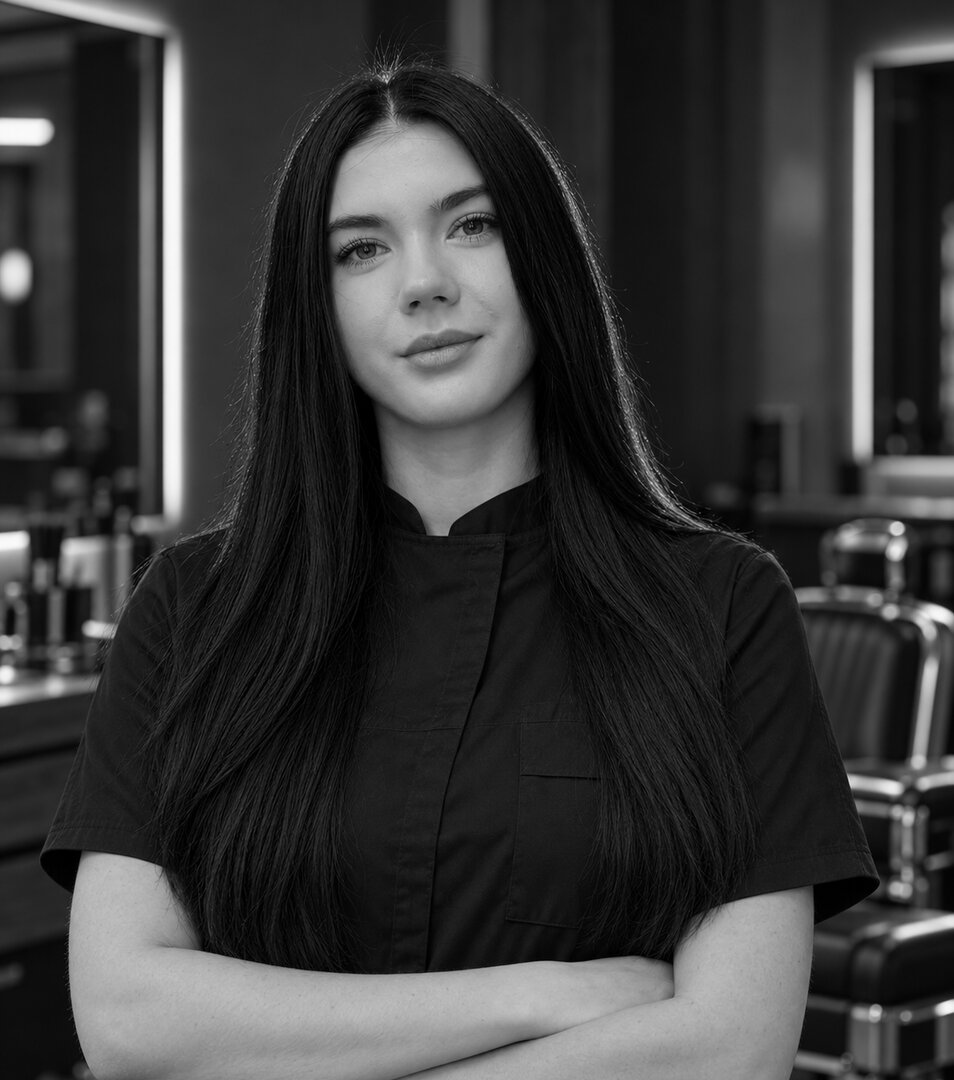
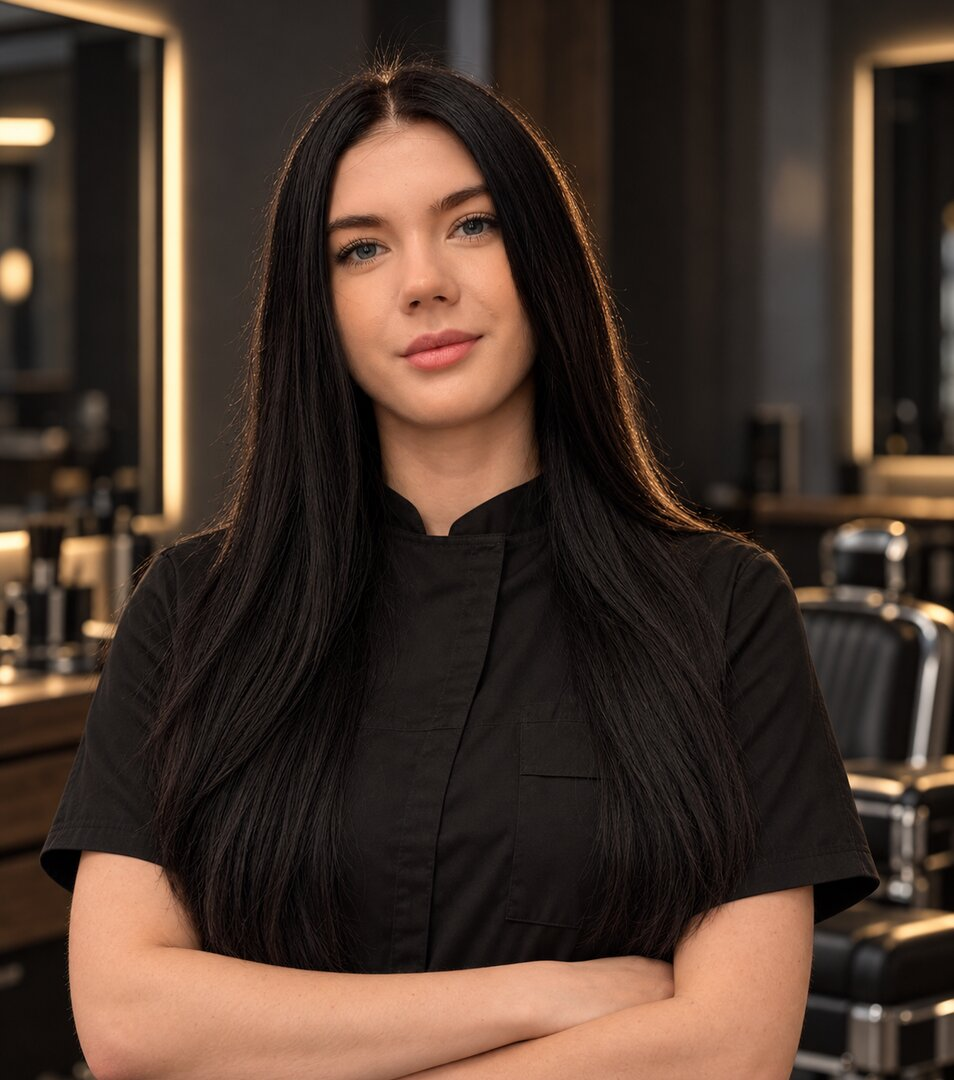
мелкие косяки

diff --git a/src/tpls/sections/team.html b/src/tpls/sections/team.html
@@ -2,8 +2,8 @@
 <!-- Tým TONSOR (`76:481`, юнит U10). H2 `76:482`: «Tým » белым + «TONSOR» золотом — единственная
 секция макета, где акцент — само название бренда, не тематическое слово секции. Карточки
 барберов (`76:483/485/487`, 477×540 десктоп / `109:1199`/`109:1212`, 182×258 мобилка): фото —
-РАСТР, не CSS-фильтр (чёрно-белое запечено в JPEG при экспорте — R=G=B на каждом пикселе, тот же
-приём, что был у макетного плейсхолдера), подпись «Barber Имя» шрифтом Trajan Pro 3 (капитель —
+РАСТР, цветные (в макете плейсхолдер был чёрно-белым, но реальные фото барберов клиент передал
+в цвете — так и оставляем, без ч/б-фильтра), подпись «Barber Имя» шрифтом Trajan Pro 3 (капитель —
 свойство самого начертания, см. STYLEGUIDE §2). 4 реальных барбера (правка клиента 10.09, п.6) —
 Zachar/Ivan/Viktorie/Anastasie, порядок фиксирован клиентом. Кадр — под точное соотношение
 карточки (477×540 → 954×1080px @2x), поэтому `object-fit: cover` в `_team.scss` де-факто не
@@ -27,7 +27,7 @@ Zachar/Ivan/Viktorie/Anastasie, порядок фиксирован клиент
           <div class="team__media">
             <picture class="team__media-pic">
               <source srcset="./img/team.tns/barber-zachar@2x.webp" type="image/webp">
-              <img class="team__media-img" src="./img/team.tns/barber-zachar@2x.jpg" alt="Barber Zachar" width="477" height="540" loading="lazy" decoding="async">
+              <img class="team__media-img" src="./img/team.tns/barber-zachar@2x.jpg" alt="Barber Zachar" width="477" height="540" decoding="async">
             </picture>
           </div>
           <p class="team__caption">Barber Zachar</p>
@@ -37,7 +37,7 @@ Zachar/Ivan/Viktorie/Anastasie, порядок фиксирован клиент
           <div class="team__media">
             <picture class="team__media-pic">
               <source srcset="./img/team.tns/barber-ivan@2x.webp" type="image/webp">
-              <img class="team__media-img" src="./img/team.tns/barber-ivan@2x.jpg" alt="Barber Ivan" width="477" height="540" loading="lazy" decoding="async">
+              <img class="team__media-img" src="./img/team.tns/barber-ivan@2x.jpg" alt="Barber Ivan" width="477" height="540" decoding="async">
             </picture>
           </div>
           <p class="team__caption">Barber Ivan</p>
@@ -47,7 +47,7 @@ Zachar/Ivan/Viktorie/Anastasie, порядок фиксирован клиент
           <div class="team__media">
             <picture class="team__media-pic">
               <source srcset="./img/team.tns/barber-viktorie@2x.webp" type="image/webp">
-              <img class="team__media-img" src="./img/team.tns/barber-viktorie@2x.jpg" alt="Barber Viktorie" width="477" height="540" loading="lazy" decoding="async">
+              <img class="team__media-img" src="./img/team.tns/barber-viktorie@2x.jpg" alt="Barber Viktorie" width="477" height="540" decoding="async">
             </picture>
           </div>
           <p class="team__caption">Barber Viktorie</p>
@@ -57,7 +57,7 @@ Zachar/Ivan/Viktorie/Anastasie, порядок фиксирован клиент
           <div class="team__media">
             <picture class="team__media-pic">
               <source srcset="./img/team.tns/barber-anastasie@2x.webp" type="image/webp">
-              <img class="team__media-img" src="./img/team.tns/barber-anastasie@2x.jpg" alt="Barber Anastasie" width="477" height="540" loading="lazy" decoding="async">
+              <img class="team__media-img" src="./img/team.tns/barber-anastasie@2x.jpg" alt="Barber Anastasie" width="477" height="540" decoding="async">
             </picture>
           </div>
           <p class="team__caption">Barber Anastasie</p>

diff --git a/src/tpls/sections/services.html b/src/tpls/sections/services.html
@@ -27,7 +27,7 @@
       <article class="service-card" data-aos="fade-up">
         <h3 class="service-card__title">Střih + úprava vousů</h3>
         <div class="service-card__links">
-          <a class="service-card__cta" href="https://www.fresha.com/cs/a/tonsor-premiovy-barbershop-plzen-plzensky-kraj-plzen-3-jizni-predmesti-1056-halkova-10-l8myvecl?pId=3091855&amp;preview=a97ba182-3039-45c6-ba48-f0862e5da559" target="_blank" rel="noopener">Rezervovat</a>
+          <a class="service-card__cta" href="https://www.fresha.com/book-now/stam-barber-s-r-o-c9avb40d/services?lid=3196688&amp;oiid=sv%3A29211029&amp;share=true&amp;pId=3091855" target="_blank" rel="noopener">Rezervovat</a>
           <a class="service-card__more" href="#portfolio" data-portfolio-filter="strih-vousy">Ukázky práce</a>
         </div>
         <p class="service-card__price"><span class="service-card__price-from">od </span>750 Kč</p>
@@ -75,7 +75,7 @@
           <a class="service-card__cta" href="https://www.fresha.com/book-now/stam-barber-s-r-o-c9avb40d/services?lid=3196688&amp;oiid=sv%3A29211050&amp;share=true&amp;pId=3091855" target="_blank" rel="noopener">Rezervovat</a>
           <a class="service-card__more" href="#portfolio">Ukázky práce</a>
         </div>
-        <p class="service-card__price">1 400 Kč</p>
+        <p class="service-card__price"><span class="service-card__price-from"></span>1 400 Kč</p>
       </article>
     </div>
   </div>

diff --git a/dist/styleguide.html b/dist/styleguide.html
@@ -4,7 +4,7 @@
   <meta charset="UTF-8">
   <meta name="viewport" content="width=device-width, initial-scale=1.0">
   <title>TONSOR — styleguide</title>
-  <link rel="stylesheet" href="./css/style.min.css?_v=20260910183613">
+  <link rel="stylesheet" href="./css/style.min.css?_v=20260910191131">
 </head>
 <body>
   <div class="wrapper">
